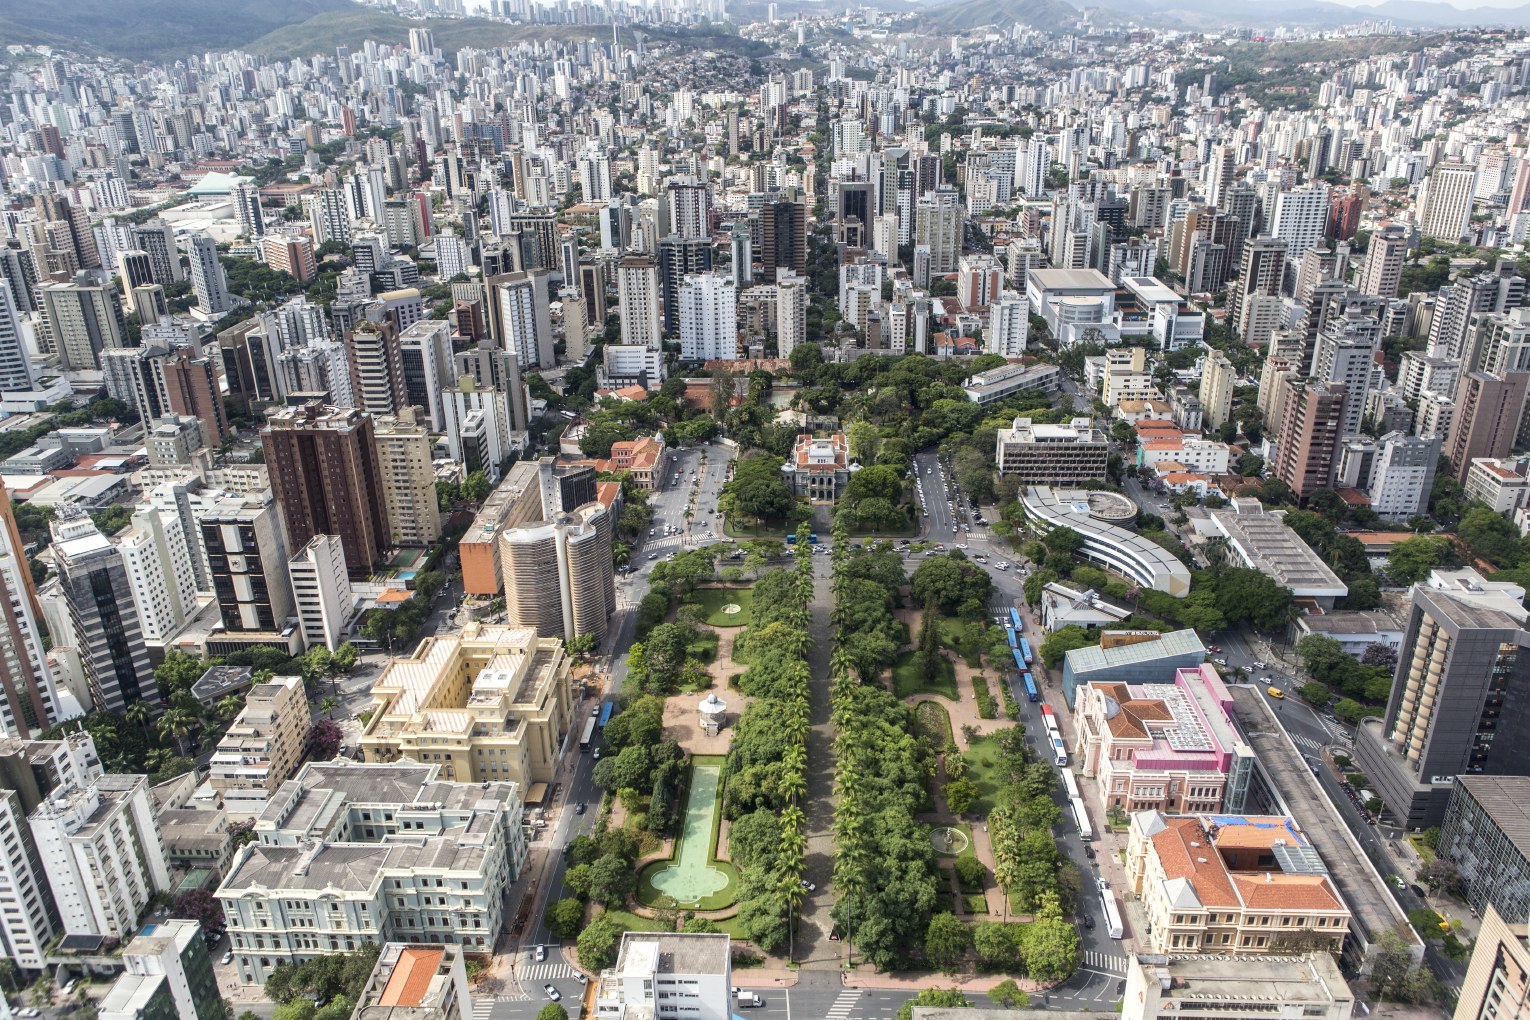
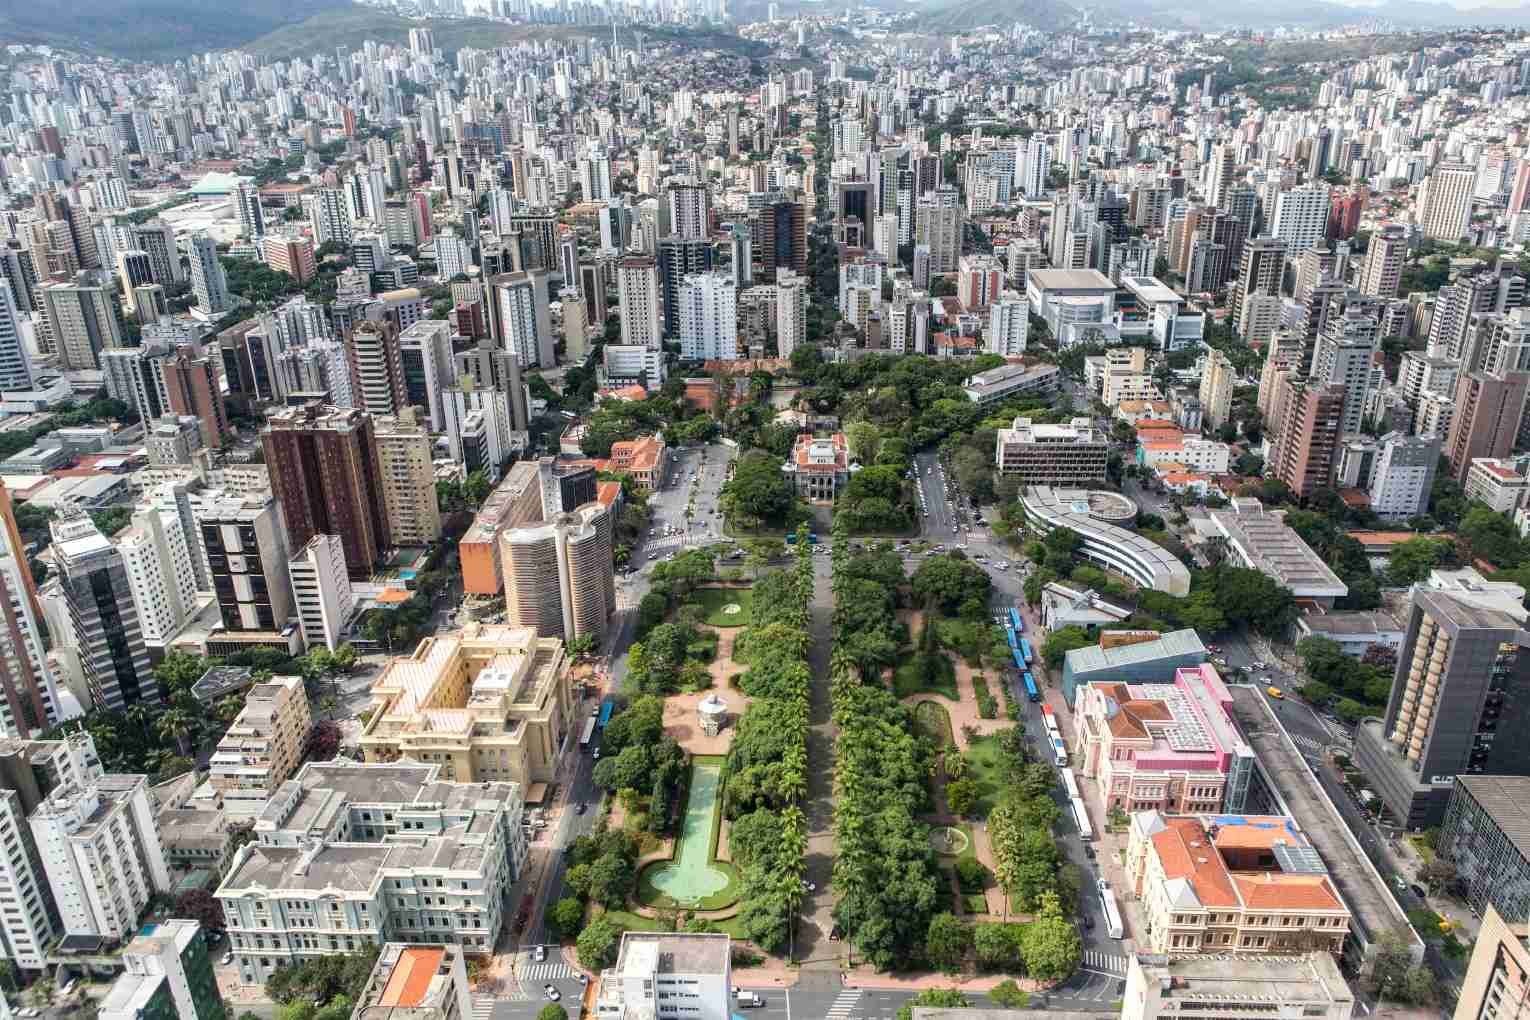
otimizado imagens para site carregar mais rapido

diff --git a/theme/templates/includes/speakers.html b/theme/templates/includes/speakers.html
@@ -64,7 +64,7 @@
       <li class="speaker">
         <a href="https://twitter.com/pk_pacheco" target="_blank" class="speaker-link">
           <div class="photo">
-            <img src="/images/speakers/paolakatherine.png" alt="Paola Katherine" height="220" width="220"/>
+            <img src="/images/speakers/paolakatherine.jpg" alt="Paola Katherine" height="220" width="220"/>
           </div>
           <h2 class="speaker-name" style="font-size:1.5em;">Paola Katherine</h2>
           <p class="speaker-description">
